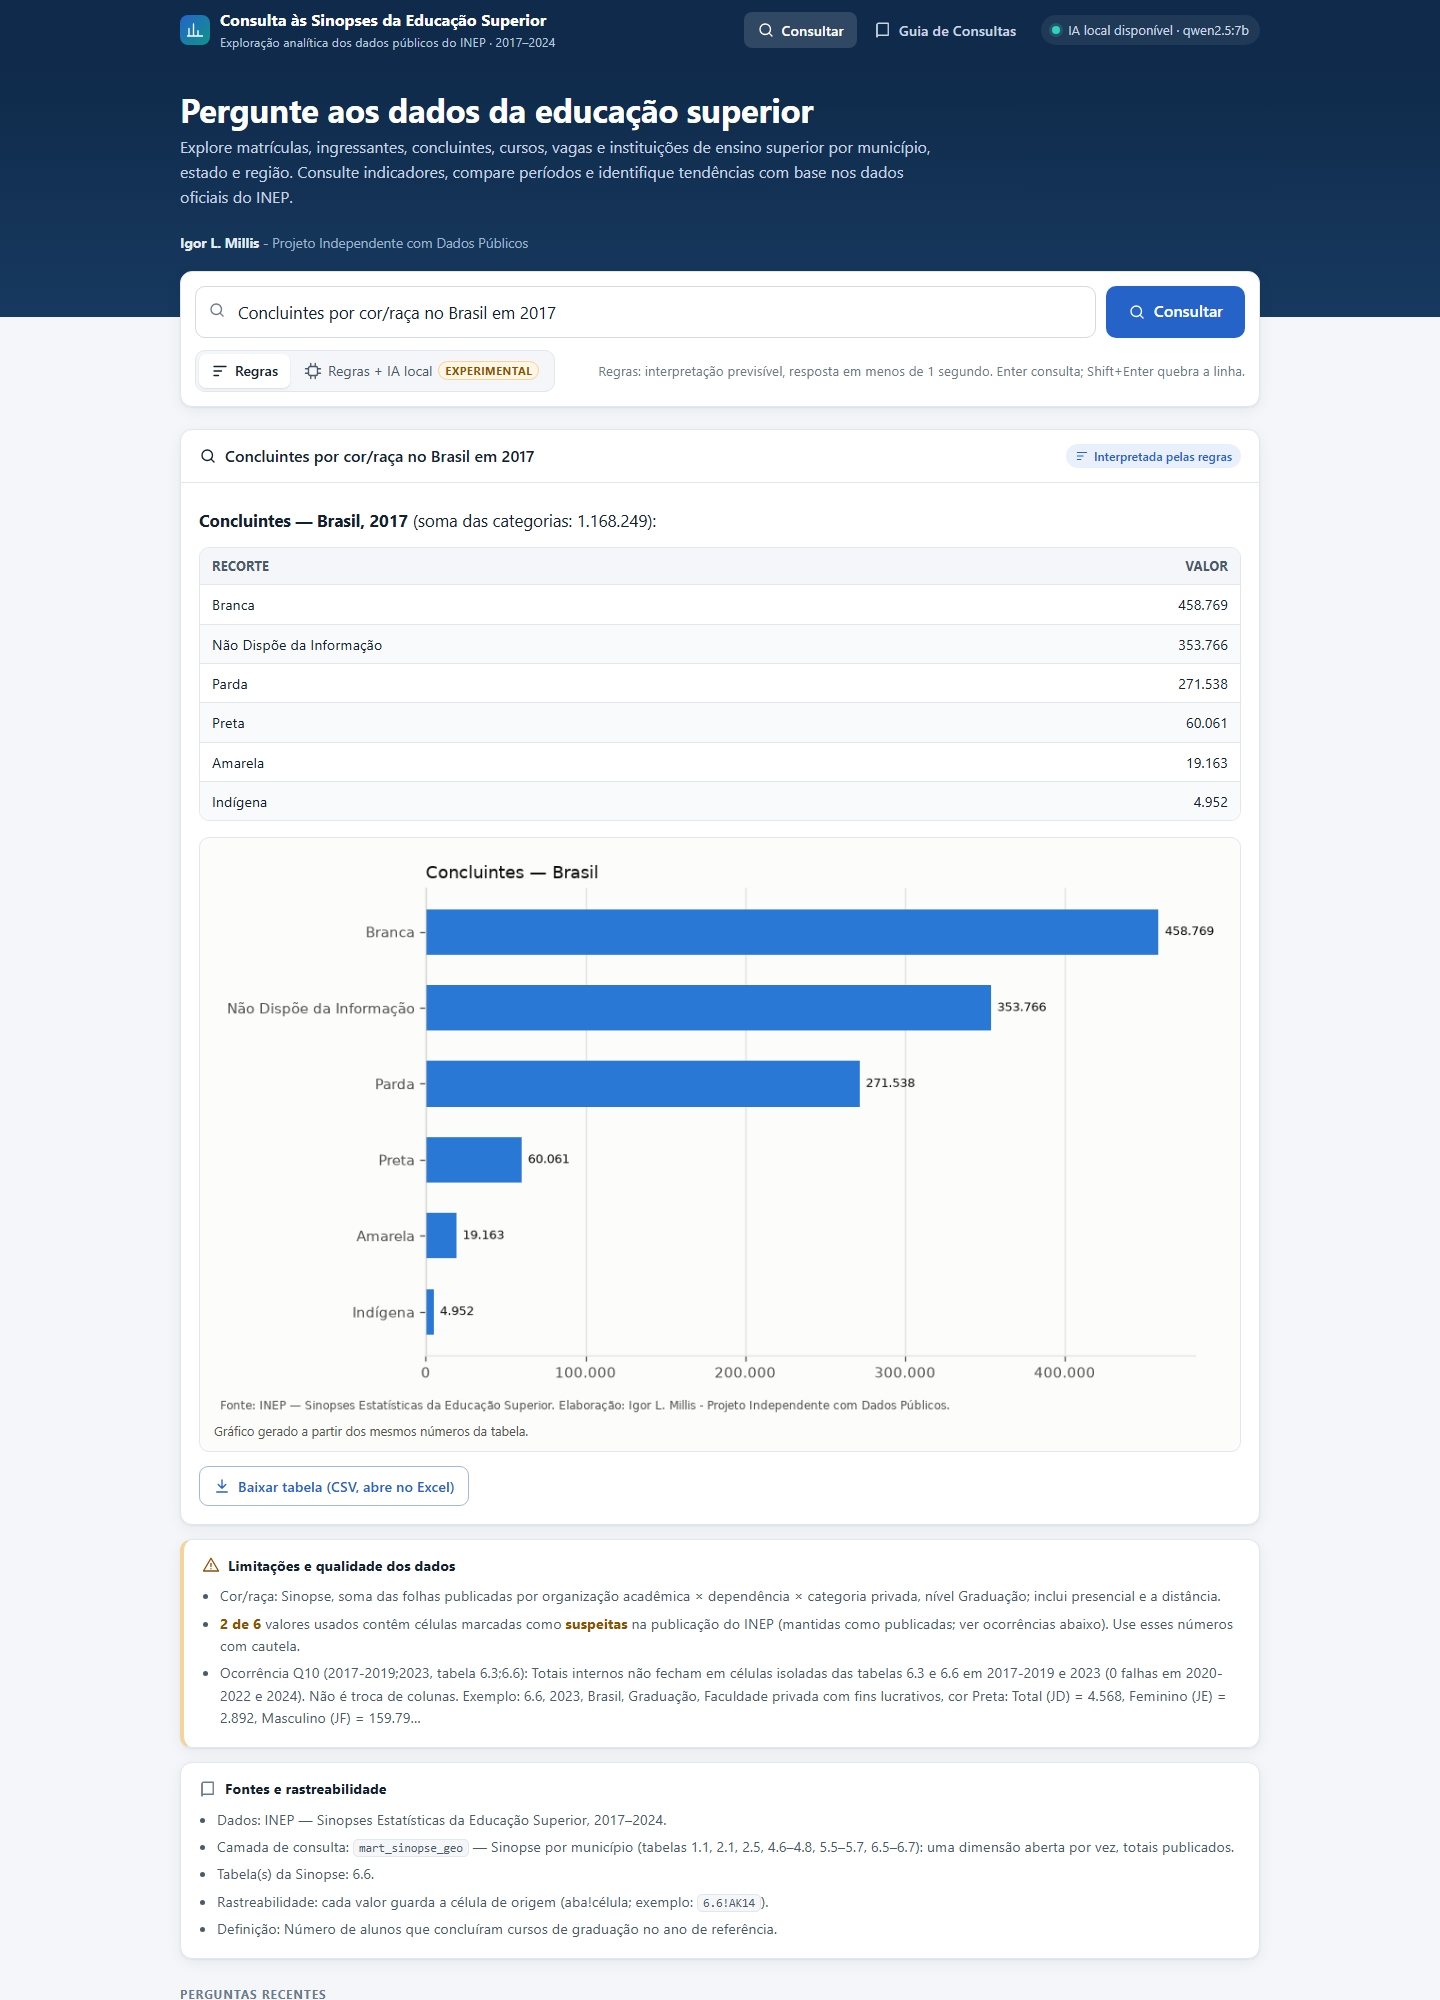
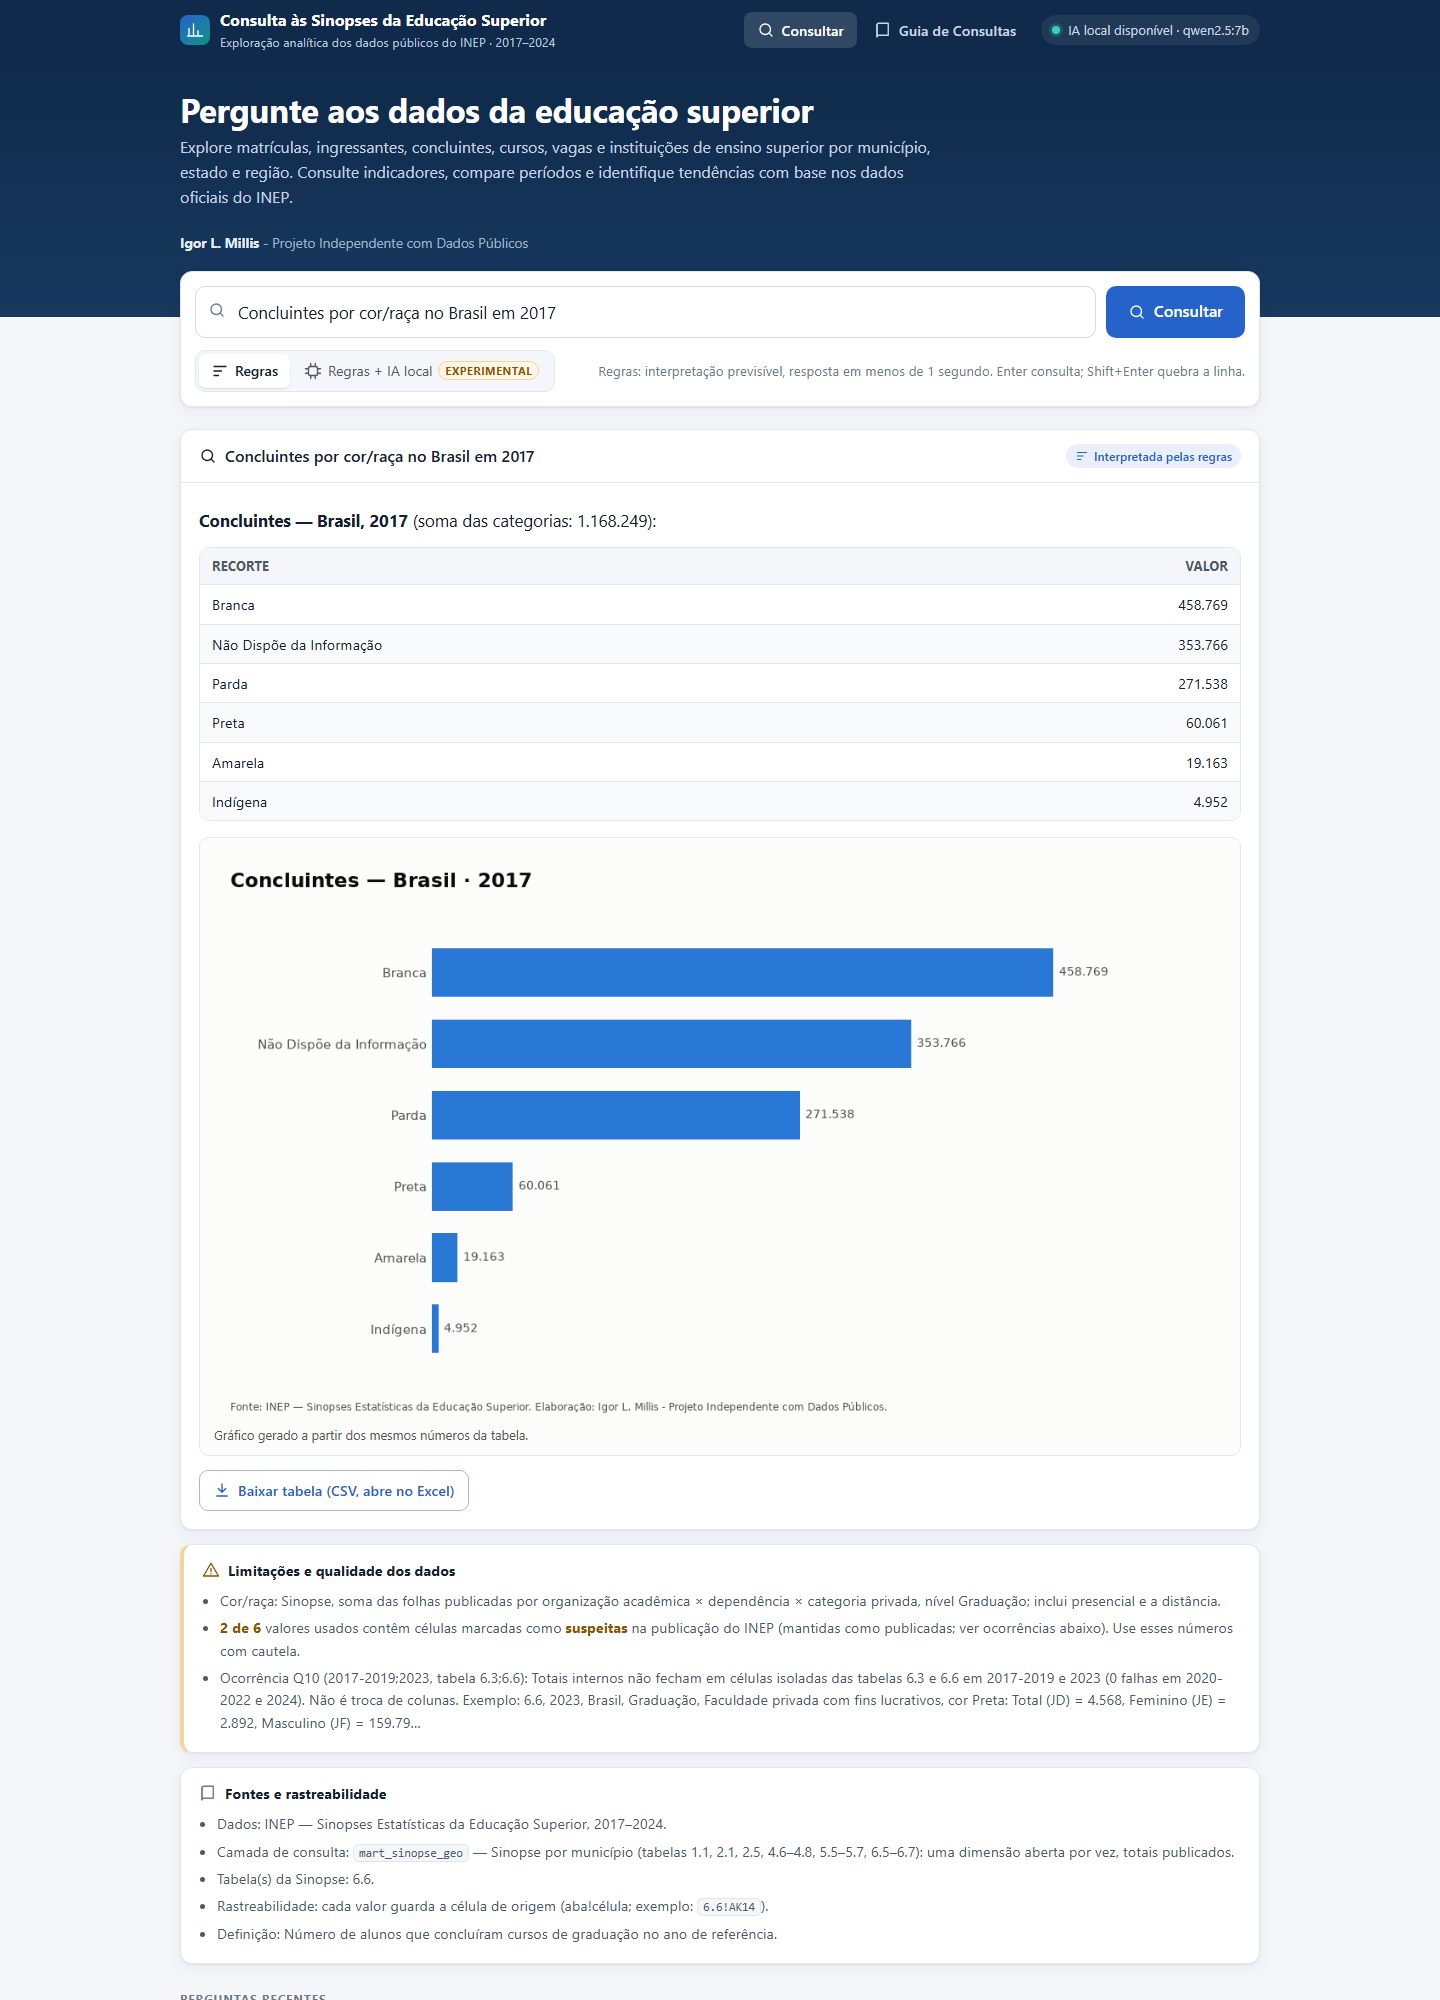
README: capturas com o novo visual dos gráficos
- resposta_serie.png: comparação ES × Goiás × Mato Grosso do Sul com projeção 2025–2027 e IC 95%
- novos grafico_comparacao_projecao.png e grafico_ranking_ufs.png (só o ES colorido entre as UFs) numa seção 'Gráficos'
- resposta_qualidade.png e tela_inicial.png regeneradas
- capturas_interface.py: casos de comparação e ranking entre UFs

diff --git a/tests/capturas_interface.py b/tests/capturas_interface.py
@@ -18,6 +18,9 @@ CASOS = [
     ("inicio_celular", "", 390, 1500),
     ("valor_desktop", "Quantas matrículas havia em Vila Velha em 2024?", 1440, 1500),
     ("serie_desktop", "Como evoluíram as matrículas no Espírito Santo entre 2017 e 2024?", 1440, 2300),
+    ("comparacao_ufs_desktop", "Compare as matrículas do Espírito Santo, Goiás e Mato Grosso do Sul entre 2017 e 2024",
+     1440, 2700),
+    ("ranking_ufs_desktop", "Quais os 27 estados com mais matrículas em 2024?", 1440, 2700),
     ("ranking_notebook", "Quais os 10 municípios capixabas com mais matrículas em 2024?", 1100, 2300),
     ("participacao_desktop", "Qual a participação das mulheres nas matrículas da rede privada do ES em 2024?", 1440, 1500),
     ("esclarecimento_desktop", "Quantos alunos com deficiência no ES?", 1440, 900),

diff --git a/README.md b/README.md
@@ -24,9 +24,21 @@ Uma ferramenta local para fazer perguntas em português sobre as oito edições 
 - **IA local opcional (experimental):** um modelo de linguagem rodando no próprio computador (Ollama + Qwen2.5 7B) ajuda a interpretar perguntas que as regras não entendem. Ele nunca gera SQL nem números.
 - **100% local:** nenhum dado é enviado a serviços externos.
 
-| Resposta com série histórica | Sinalização de qualidade | Guia de Consultas |
+| Comparação entre UFs, com projeção | Sinalização de qualidade | Guia de Consultas |
 |---|---|---|
 | ![Série](docs/img/resposta_serie.png) | ![Qualidade](docs/img/resposta_qualidade.png) | ![Guia](docs/img/guia_de_consultas.png) |
+
+### Gráficos
+
+Os gráficos seguem os princípios de *storytelling* com dados:
+- o título afirma a conclusão;
+- só o Espírito Santo é colorido e as demais UFs ficam em cinza, como contexto;
+- os valores são rotulados direto na ponta da linha;
+- as séries anuais ganham uma projeção de 3 anos por tendência linear, com intervalo de previsão de 95% (extrapolação estatística, não dado do INEP).
+
+| Série com projeção e IC 95% | Posição do ES entre as UFs |
+|---|---|
+| ![Comparação com projeção](docs/img/grafico_comparacao_projecao.png) | ![Ranking das UFs](docs/img/grafico_ranking_ufs.png) |
 
 ## Os dados não estão neste repositório
 
